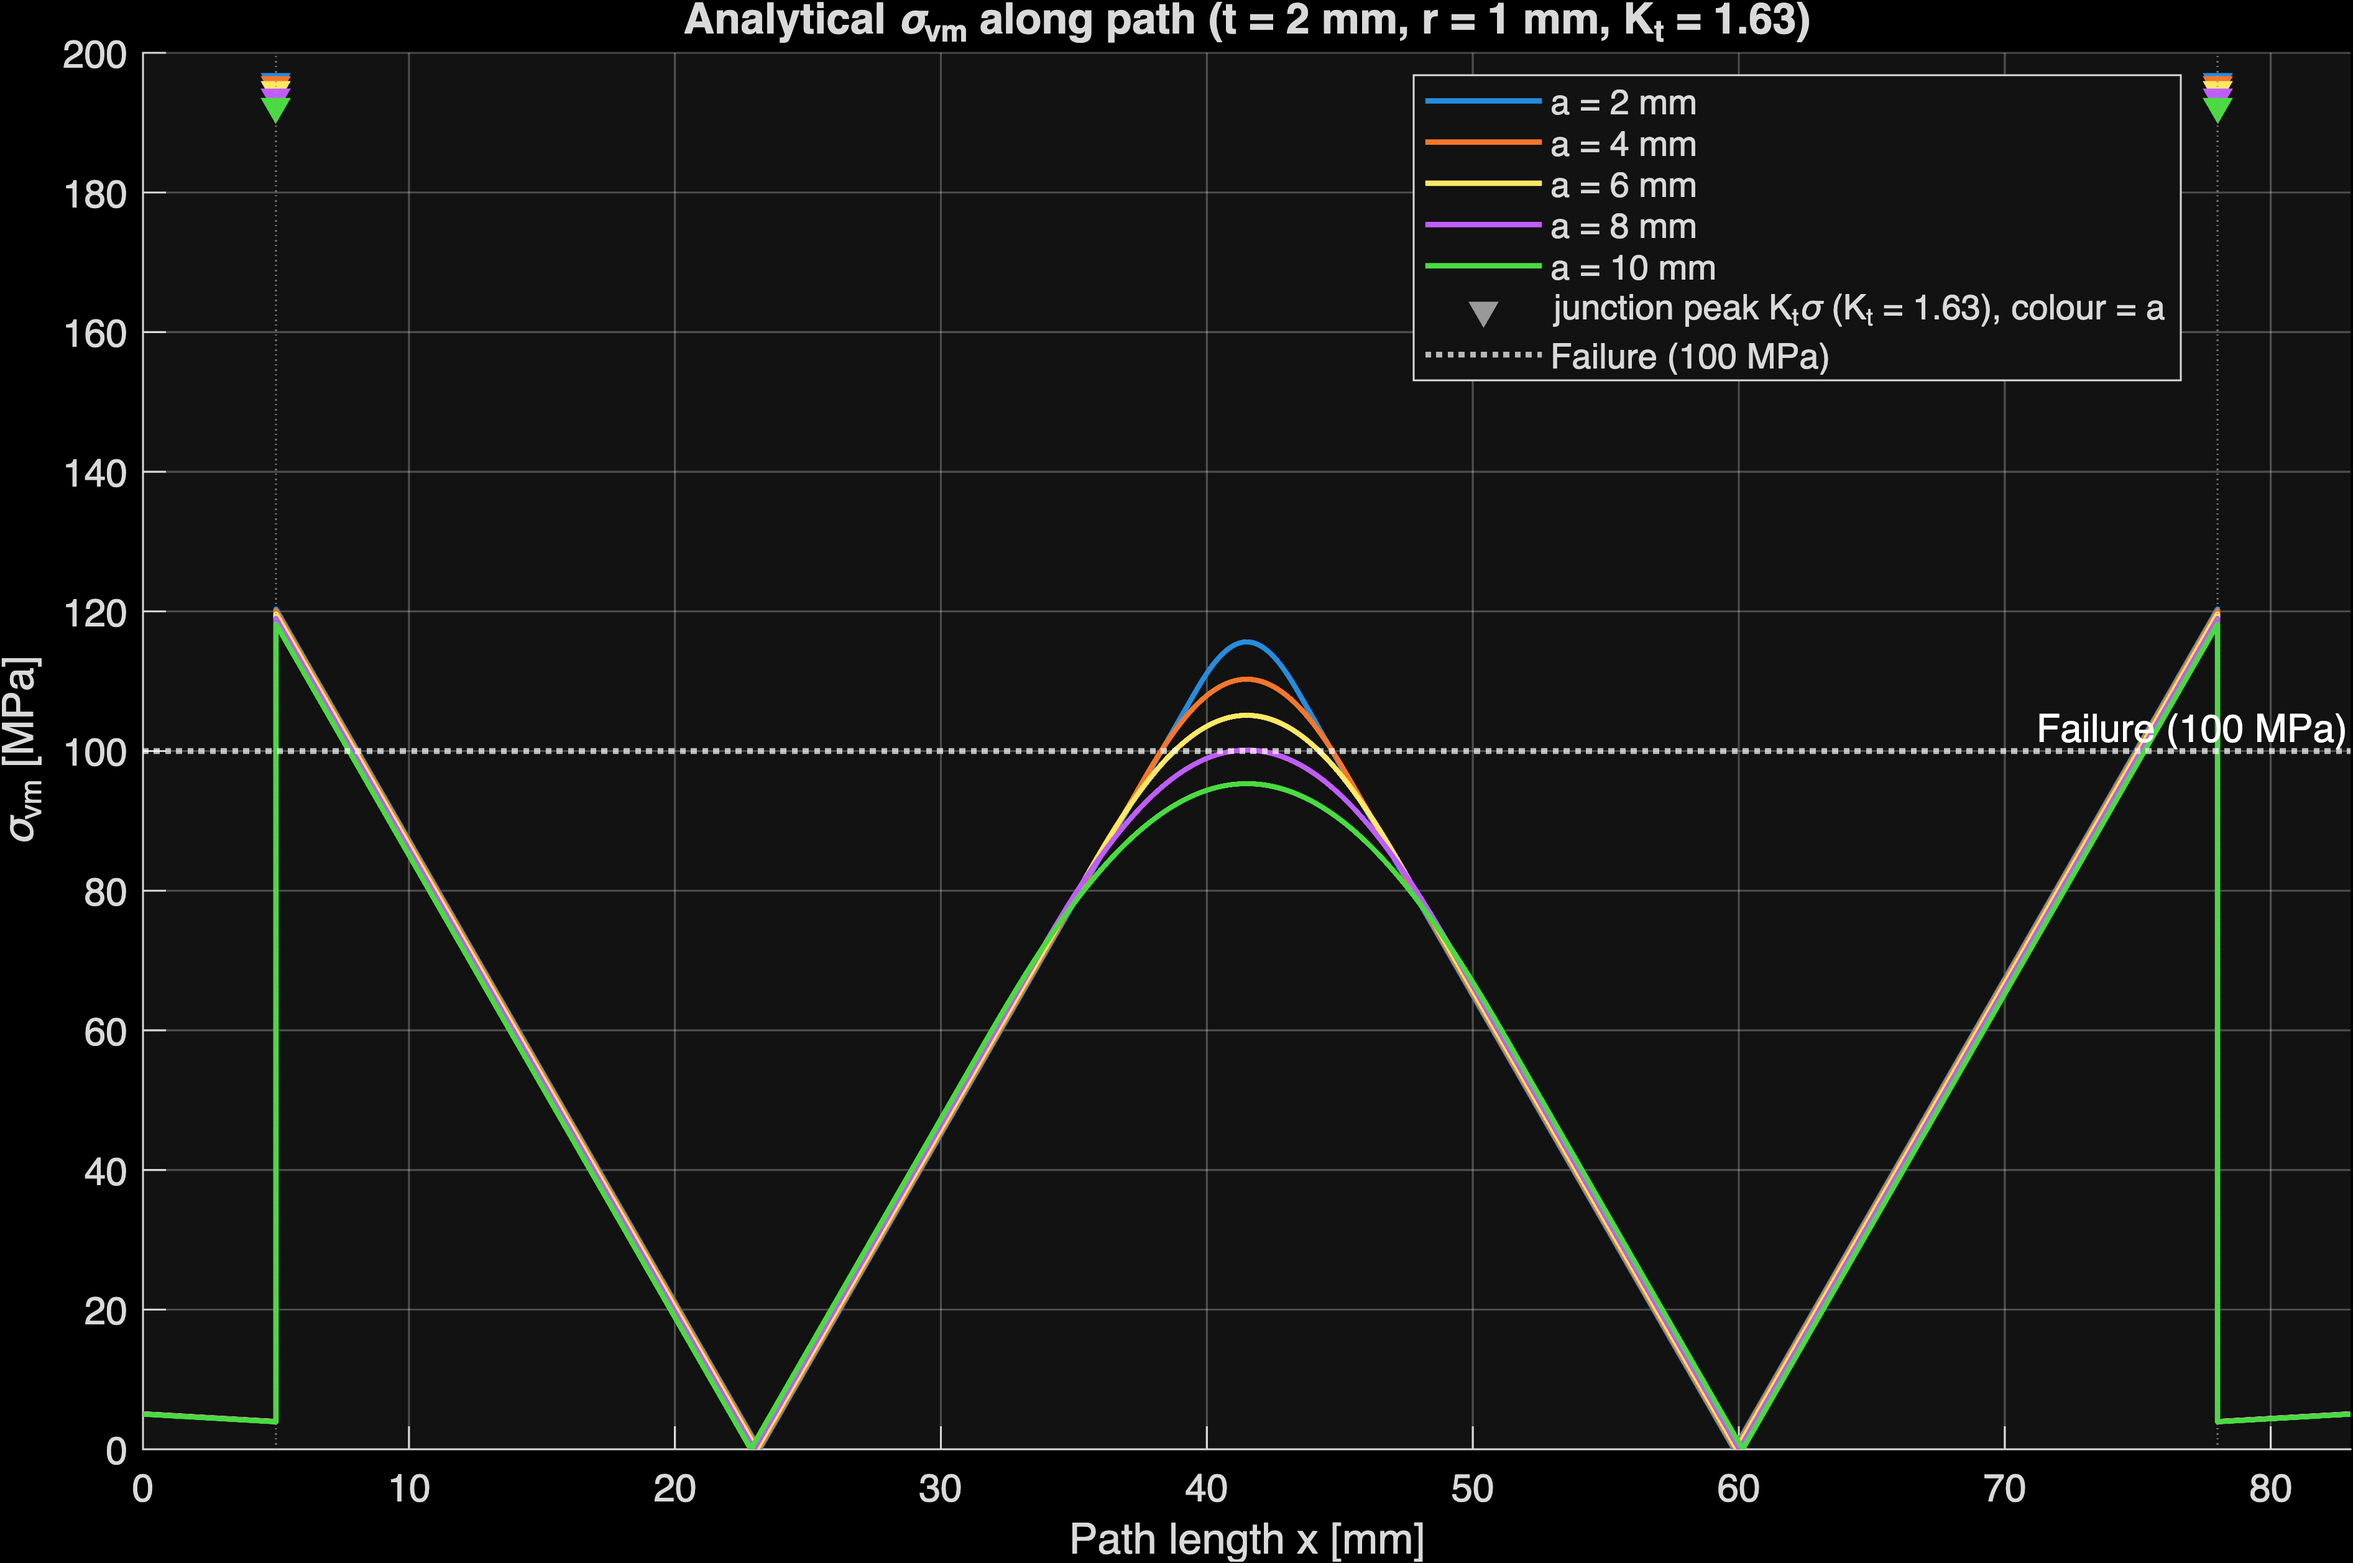
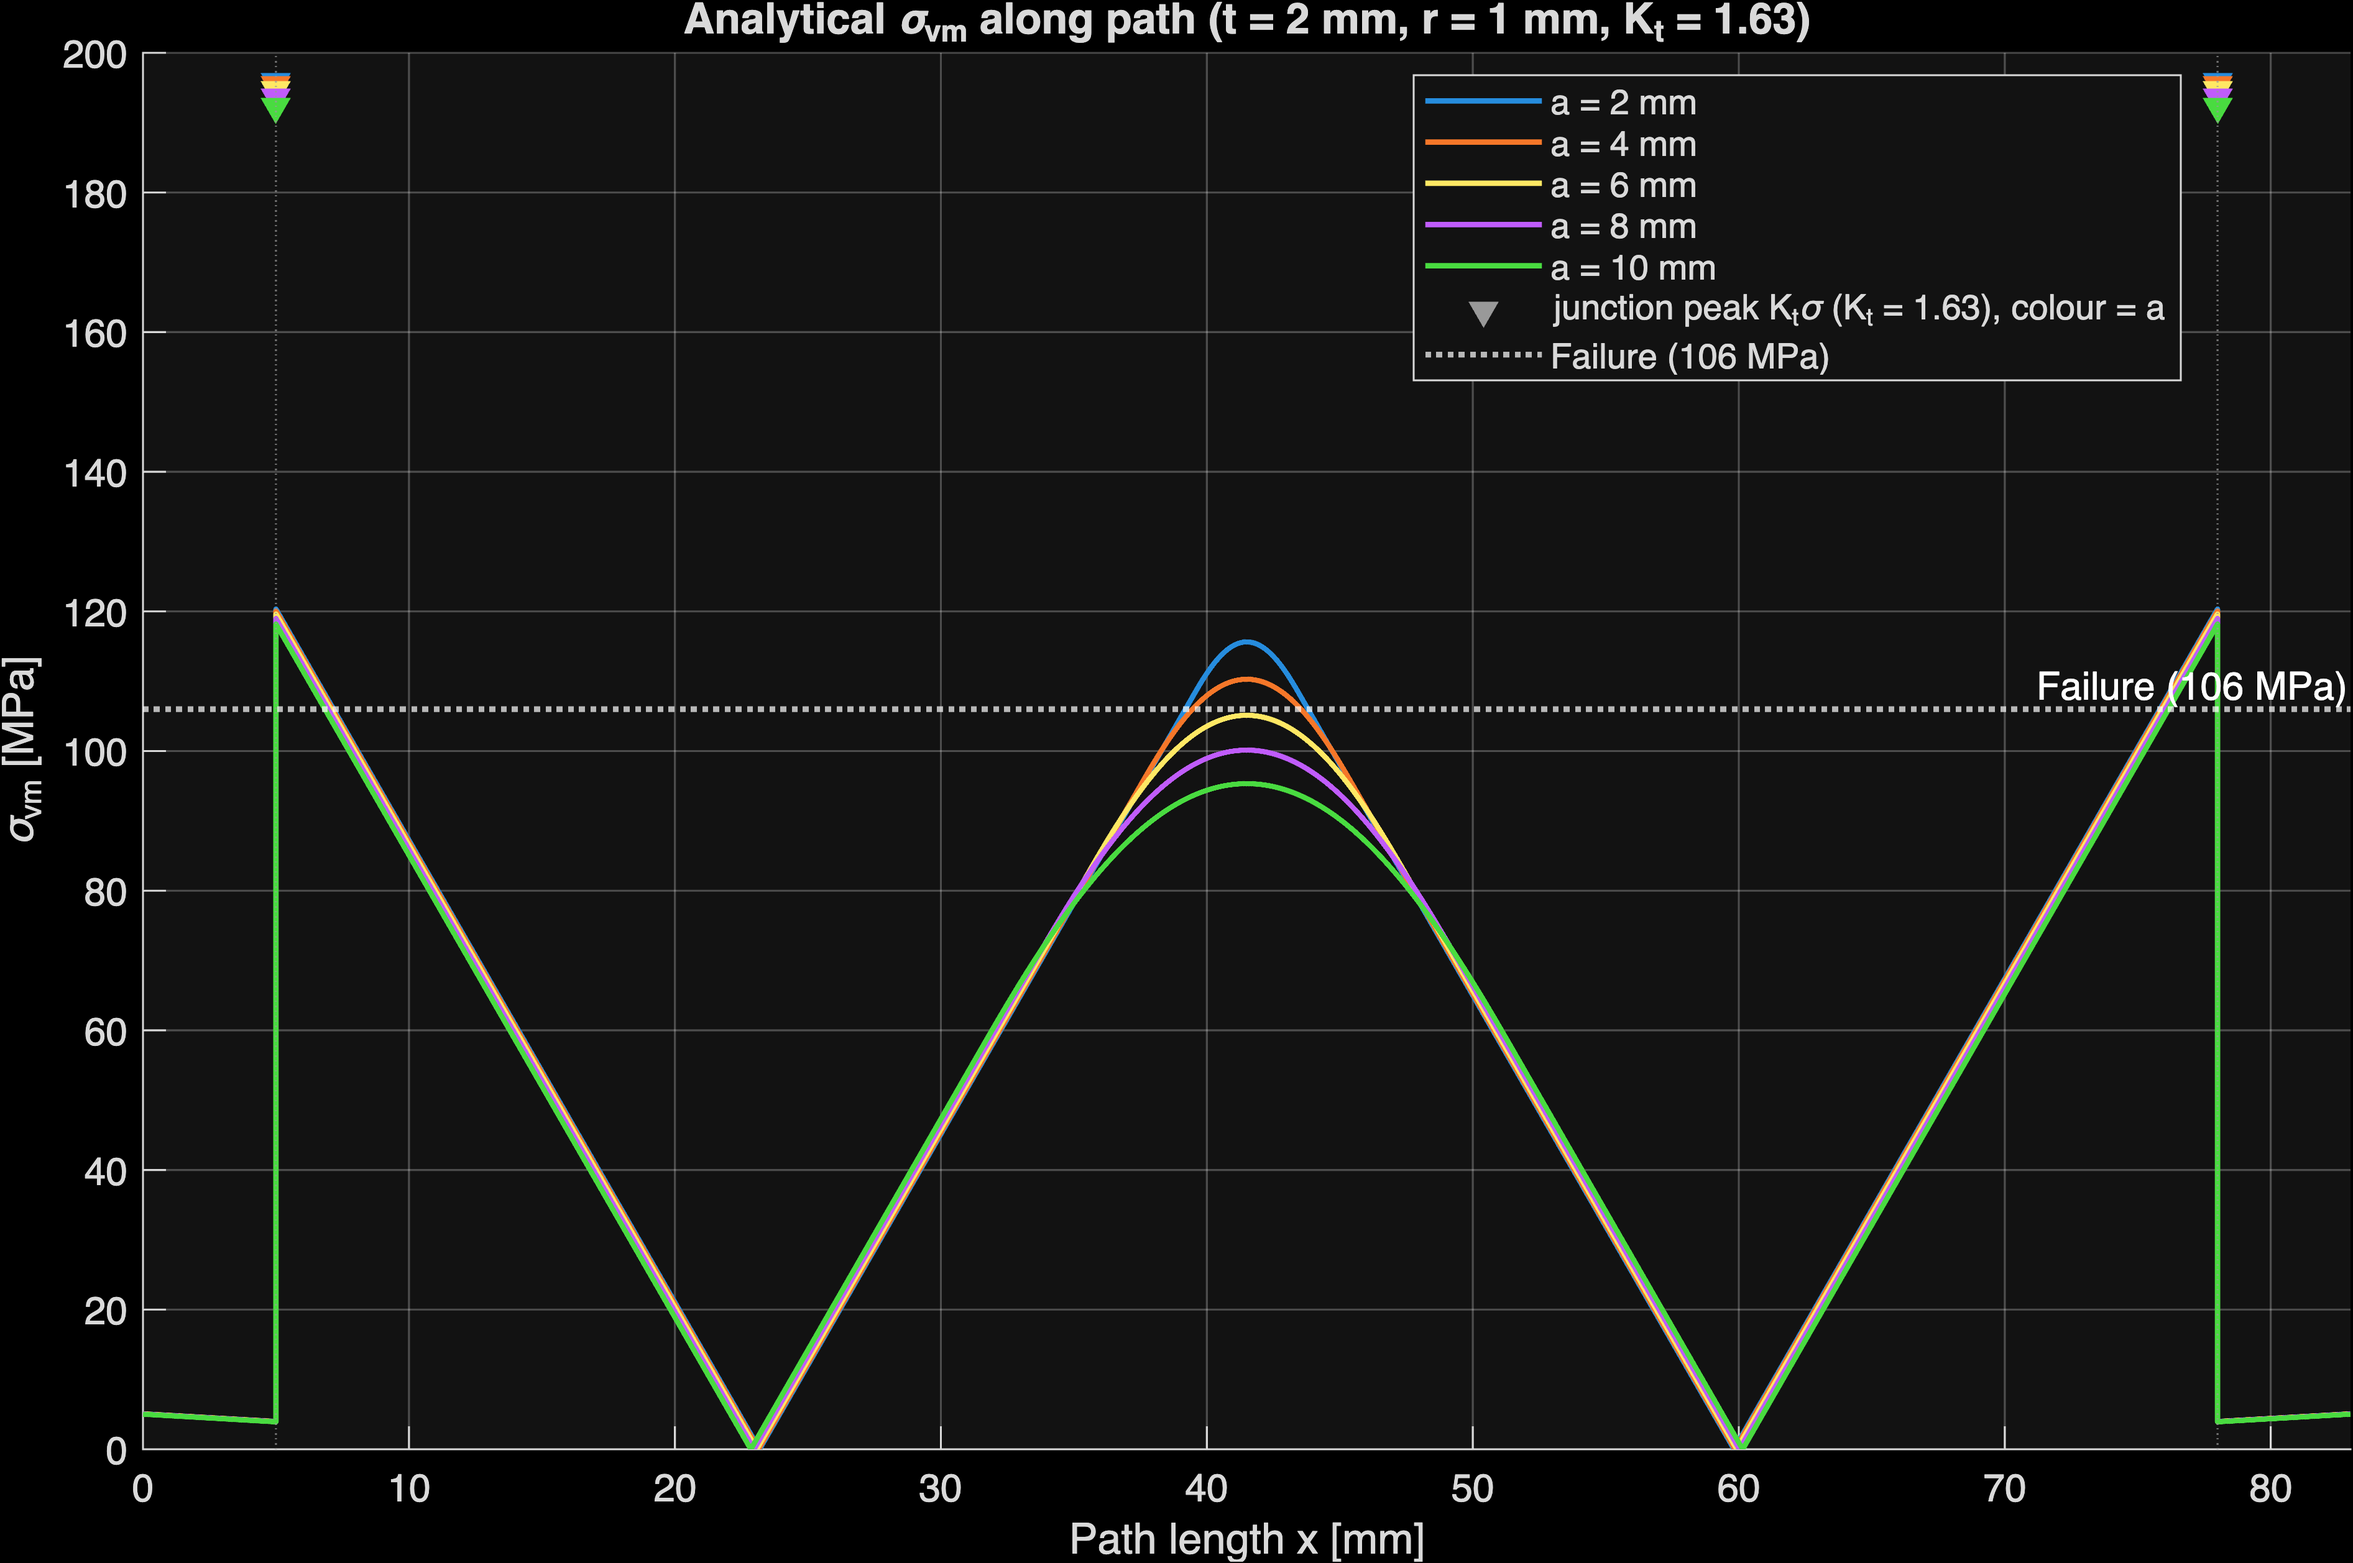
Minor updates to Tier 1 scripts

Changed region(s): [[0.8417, 0.4342, 0.9976, 0.4962]]

diff --git a/scripts and outputs/tier_1/fea_vs_analytical.m b/scripts and outputs/tier_1/fea_vs_analytical.m
@@ -7,7 +7,7 @@ clear; clc; close all;
 fea_dir    = fullfile(fileparts(mfilename('fullpath')), '..', '..', 'Simulation results', 'Tier 1');
 win_j      = 15;        % junction window: within this distance of either path end
 win_c      = 10;        % centre window: +/- this around mid-path
-sigma_fail = 100;       % failure line
+sigma_fail = 106;       % failure line (MPa)
 P_fea      = 300;       % load the FEA was solved at; Total is scaled linearly to the analytical P
 shade      = 0.6;       % analytical colour = shade * FEA colour (darker, still visible on black)
 
@@ -60,7 +60,7 @@ for i = 1:n
     plot(fea(i).S, fea(i).total, '.-', 'Color', cols(i,:), 'LineWidth', 1.4, 'MarkerSize', 10, ...
         'DisplayName', sprintf('a = %g mm', a_fea(i)));
 end
-yline(sigma_fail, ':', 'Failure (100 MPa)', 'Color', 'w', 'LineWidth', 1.5, 'DisplayName', 'Failure (100 MPa)');
+yline(sigma_fail, ':', sprintf('Failure (%g MPa)', sigma_fail), 'Color', 'w', 'LineWidth', 1.5, 'DisplayName', sprintf('Failure (%g MPa)', sigma_fail));
 xlabel('Path length S [mm]'); ylabel('\sigma_{vm} [MPa]');
 title(sprintf('FEA \\sigma_{vm} along path (linearized Total, scaled %g N \\rightarrow %g N)', P_fea, A.P));
 legend('Location', 'best'); xlim([0 S_end]);
@@ -84,7 +84,7 @@ for i = 1:n
     ca = shade * cols(i,:);                    % analytical: darker shade of this a's FEA colour
     plot(xa, A.SVM(i,:), '-', 'Color', ca, 'LineWidth', 1.6, 'DisplayName', 'analytical');
     plot(xj, [aj(i) aj(i)], 'v', 'Color', ca, 'MarkerFaceColor', ca, 'DisplayName', sprintf('analytical K_t\\sigma (K_t = %.2f)', A.Kt));
-    yline(sigma_fail, ':', 'Failure (100 MPa)', 'Color', 'w', 'LineWidth', 1.5, 'DisplayName', 'Failure (100 MPa)');
+    yline(sigma_fail, ':', sprintf('Failure (%g MPa)', sigma_fail), 'Color', 'w', 'LineWidth', 1.5, 'DisplayName', sprintf('Failure (%g MPa)', sigma_fail));
     xlabel('Path length [mm]'); ylabel('\sigma_{vm} [MPa]');
     title(sprintf('a = %g mm: C_{junction} = %.2f, C_{centre} = %.2f', a_fea(i), C.C_junction(i), C.C_centre(i)));
     legend('Location', 'best'); xlim([0 S_end]);

diff --git a/scripts and outputs/tier_1/path_stress_analytical.m b/scripts and outputs/tier_1/path_stress_analytical.m
@@ -17,6 +17,7 @@ E     = 72e3;           % Al 7075-T7351
 nu    = 0.33;
 z_path = 2.0;           % path height above base
 N     = 20001;          % grid points along x
+sigma_fail = 106;      % failure line (MPa)
 
 out_dir = fullfile(fileparts(mfilename('fullpath')), 'output');
 if ~exist(out_dir, 'dir'), mkdir(out_dir); end
@@ -60,7 +61,7 @@ end
 plot(NaN, NaN, 'v', 'Color', [0.6 0.6 0.6], 'MarkerFaceColor', [0.6 0.6 0.6], ...
     'DisplayName', sprintf('junction peak K_t\\sigma (K_t = %.2f), colour = a', Kt));   % one legend entry for all triangles
 xline(x_j, ':', 'Color', [0.6 0.6 0.6], 'HandleVisibility', 'off');   % junction stations, grey for dark background
-yline(100, ':', 'Failure (100 MPa)', 'Color', 'w', 'LineWidth', 1.5, 'DisplayName', 'Failure (100 MPa)');   % failure threshold
+yline(sigma_fail, ':', sprintf('Failure (%g MPa)', sigma_fail), 'Color', 'w', 'LineWidth', 1.5, 'DisplayName', sprintf('Failure (%g MPa)', sigma_fail));   % failure threshold
 xlabel('Path length x [mm]'); ylabel('\sigma_{vm} [MPa]');
 title(sprintf('Analytical \\sigma_{vm} along path (t = %g mm, r = %g mm, K_t = %.2f)', t, r_f, Kt));
 legend('Location', 'best'); xlim([0 L_tot]);
